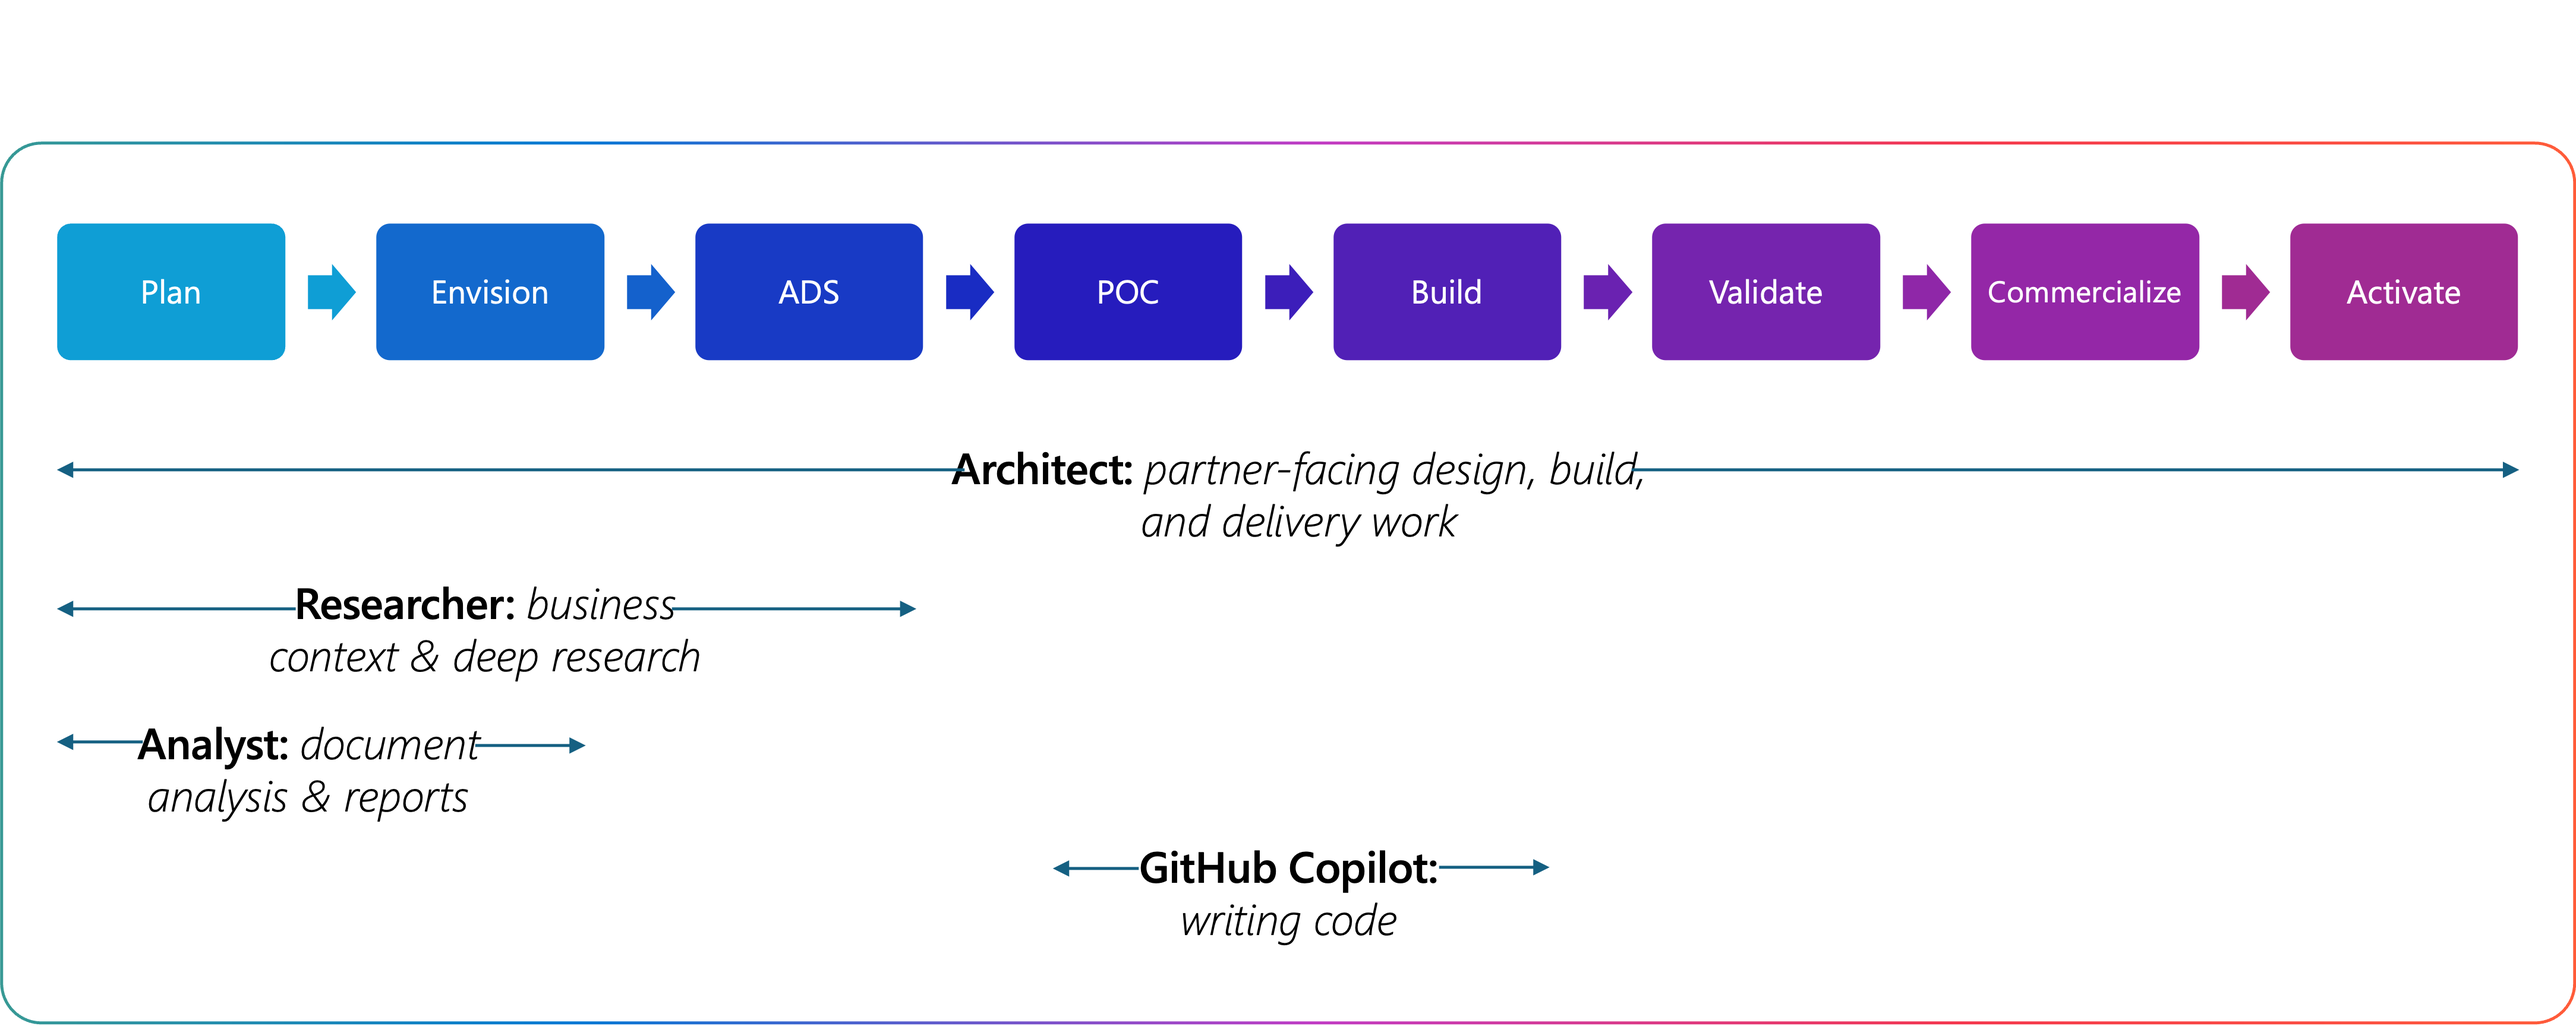
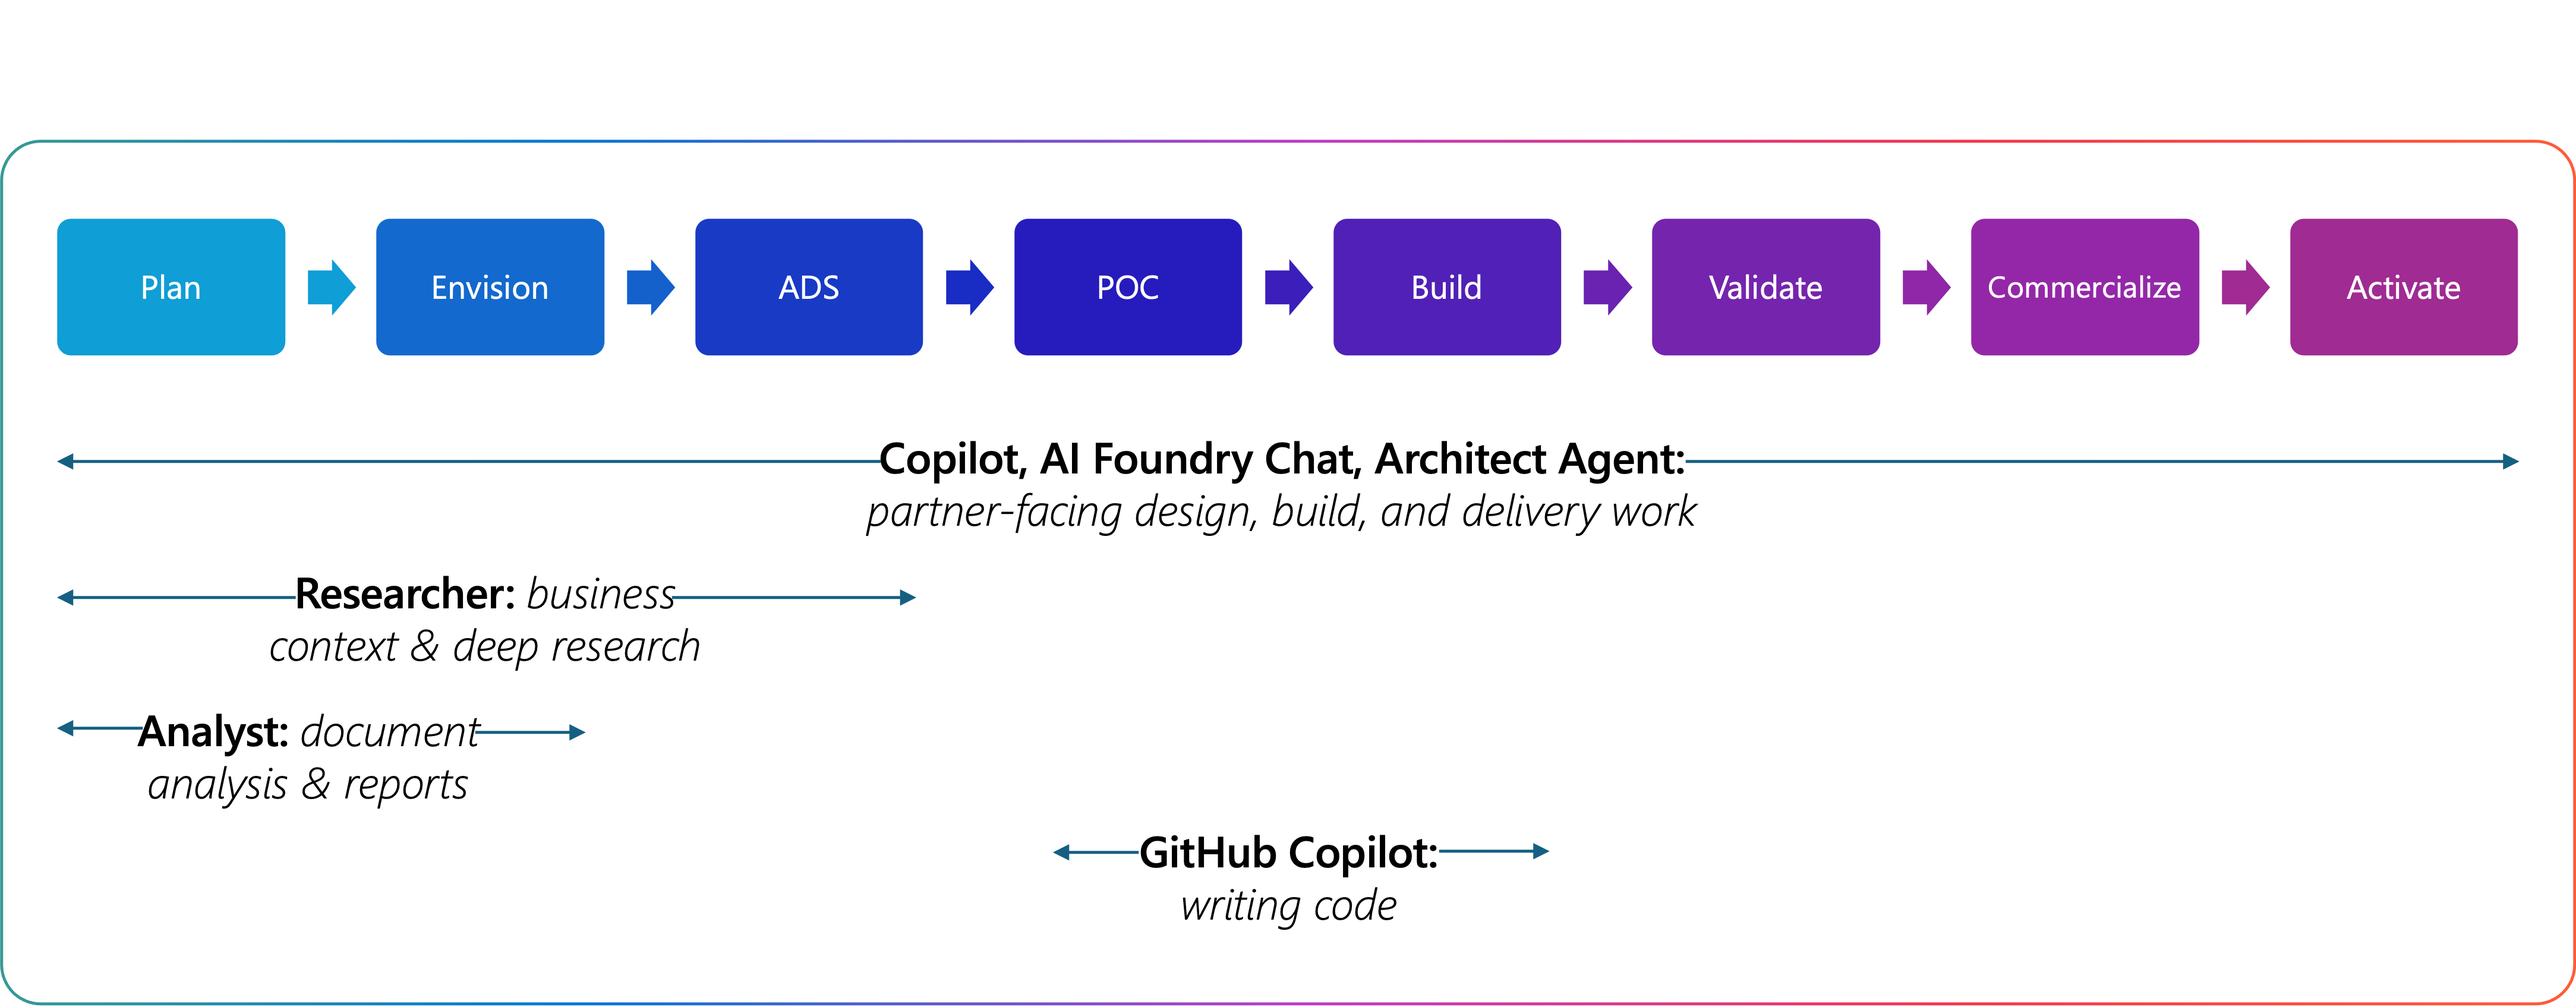
update image

diff --git a/engagement-guide.md b/engagement-guide.md
@@ -12,11 +12,10 @@ _A modular playbook to accelerate every stage of the "Roadmap to Revenue" soluti
 - **Accelerate with GenAI:** Use this guide to identify where AI tools can support you as a Frontier PSA in reducing manual effort and speeding up delivery.
 - **Plug and play:** Use the repository's curated prompts when available, and supplement with additional recommended GenAI tooling elsewhere.
 - **Flexible by design:** Not all steps apply in every engagement — tailor as needed while staying grounded in the Solution Journey Framework.
-
+- 💡 **Bonus tip!**
+Many of these prompts have been built into [Architect](https://aka.ms/architectagent), a Copilot agent that you can use today! Use the agent for less manual typing and effort, or use the prompts directly for more configurability.
 
 ![Solution Journey Visual](images/solution_journey.png)
-
-
 
 ## Accelerating Stages of the "Roadmap to Revenue" Solution Journey
 ### 1. Plan
